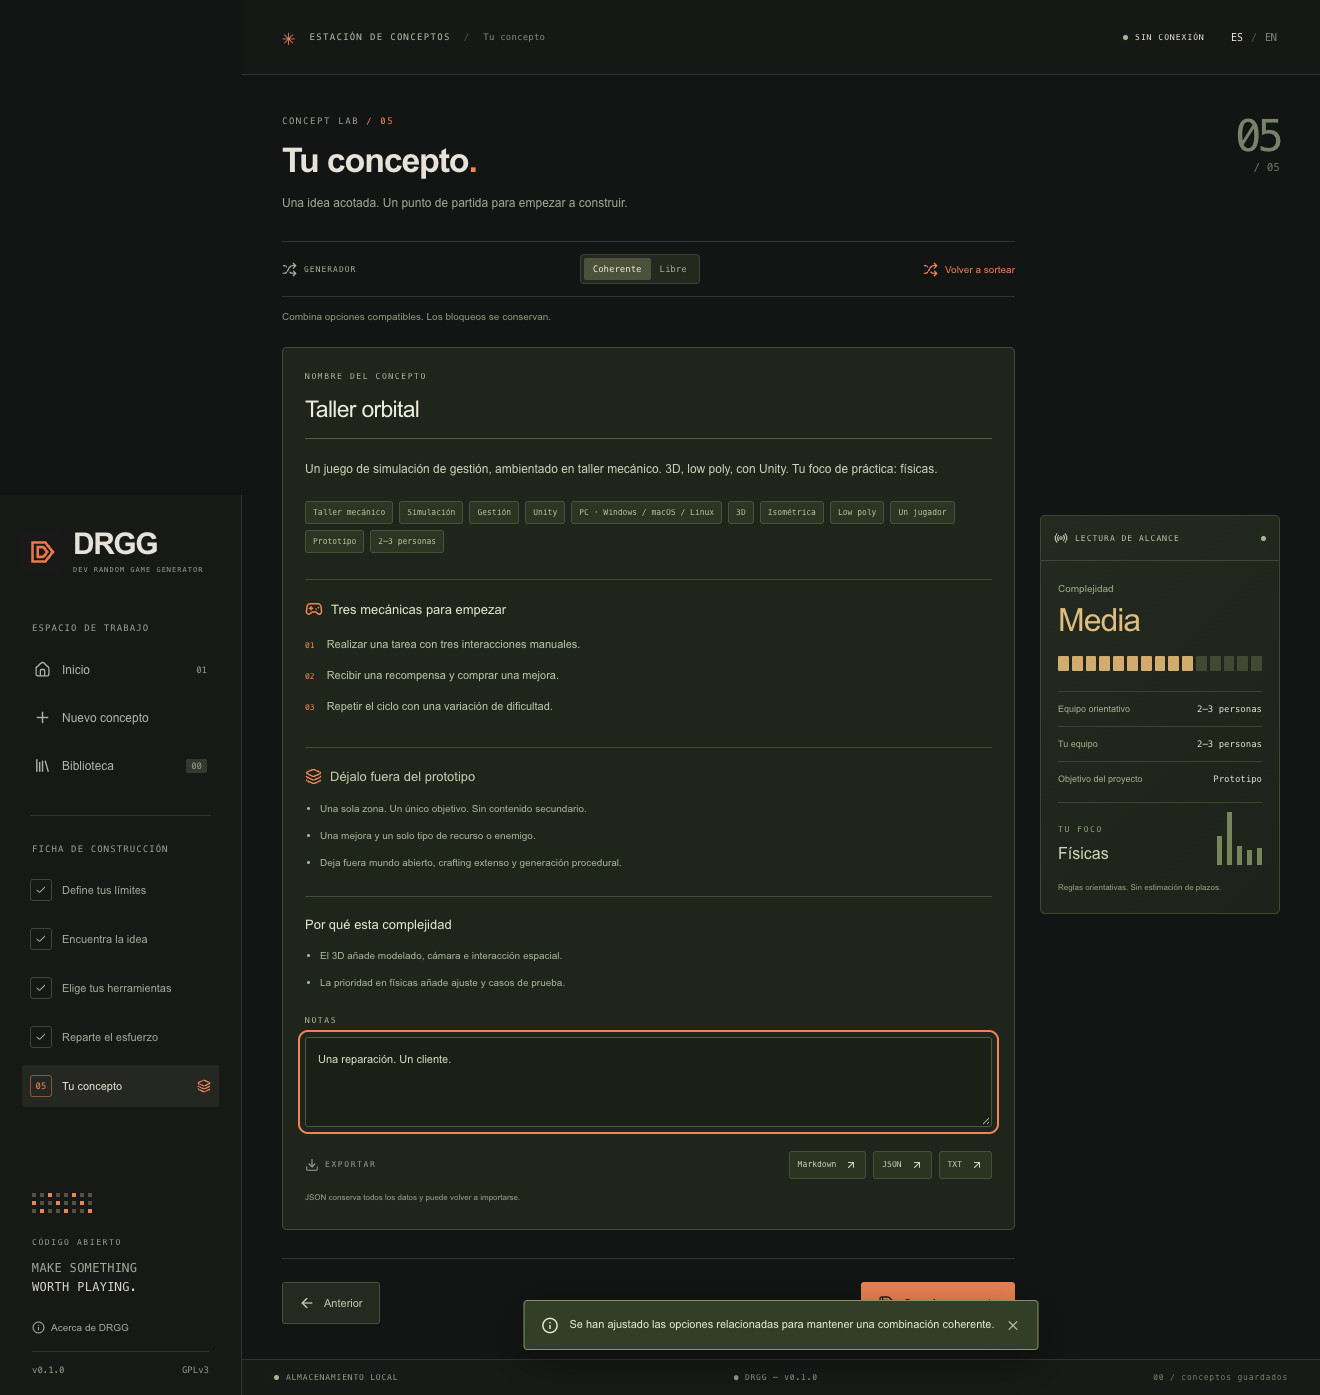
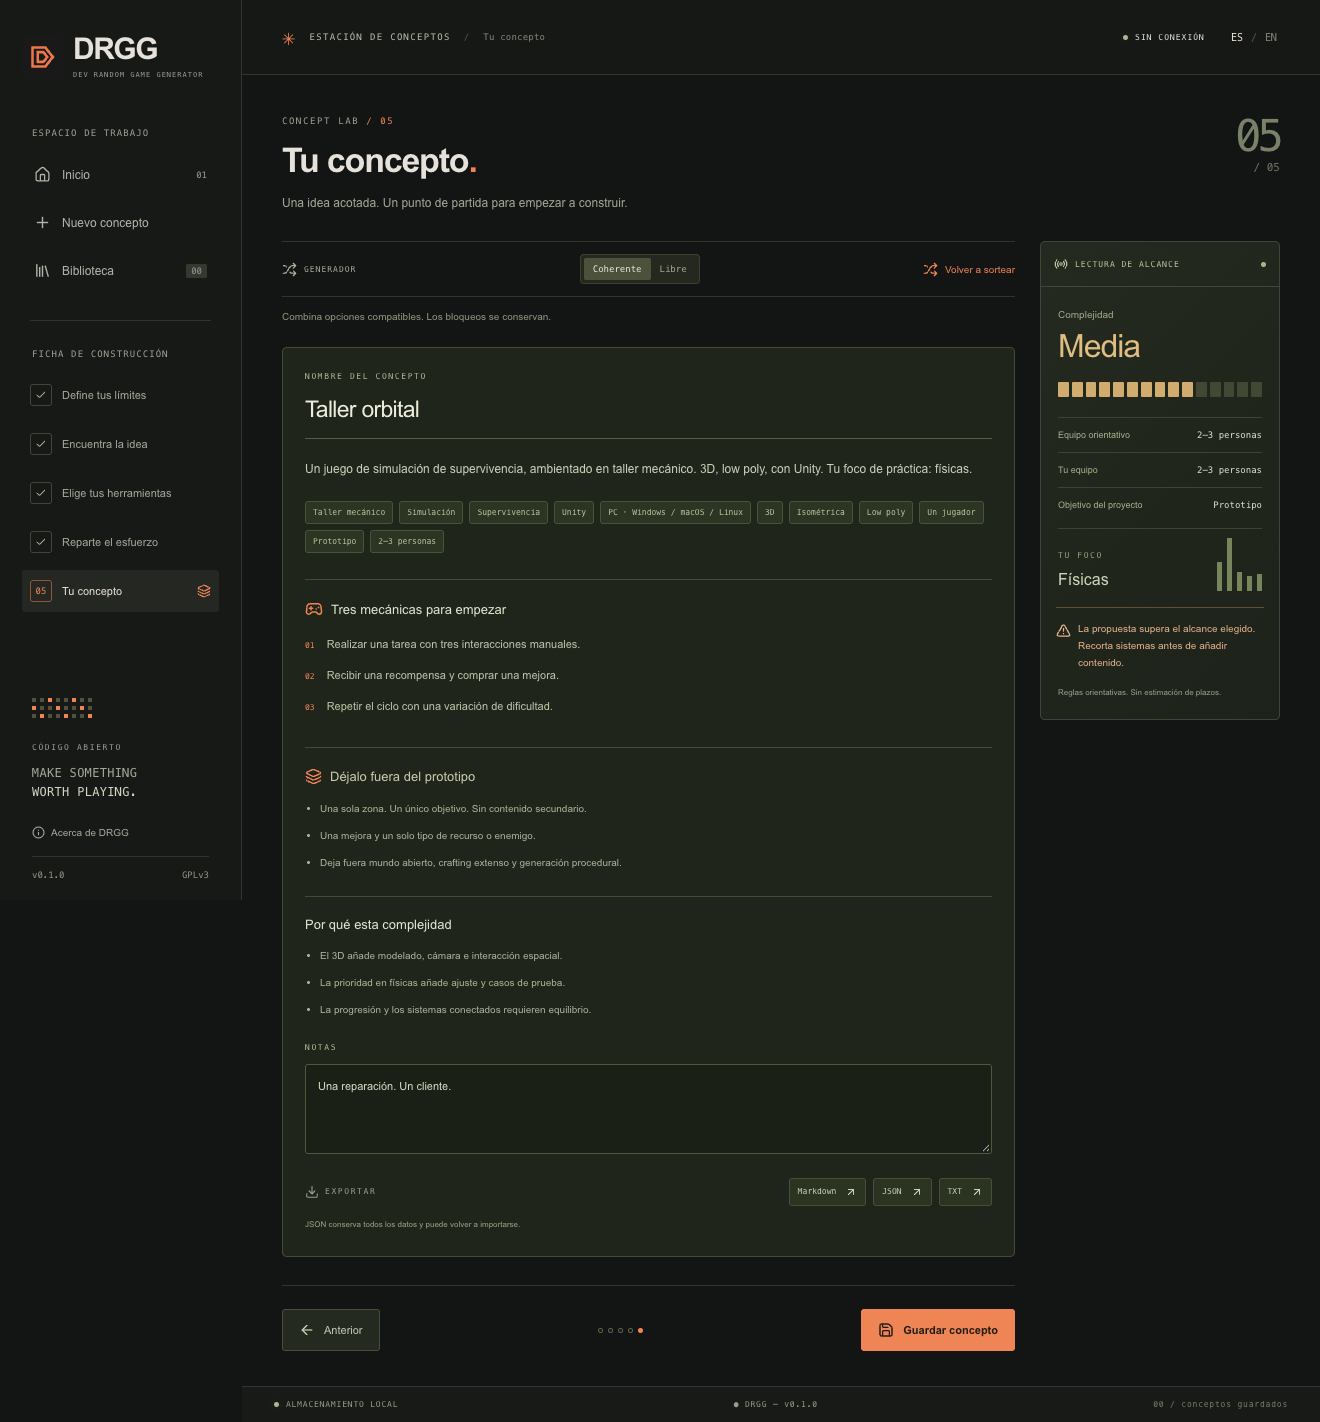
docs: record native verification and improve concept capture

diff --git a/tests/e2e/app.spec.ts b/tests/e2e/app.spec.ts
@@ -24,6 +24,11 @@ test('manual workflow, real engines, priorities, persistence, duplicate and dele
   await page.getByRole('button', { name: 'Ver concepto', exact: true }).click();
   await page.getByLabel('Nombre del concepto').fill('Taller orbital');
   await page.getByLabel('Notas', { exact: true }).fill('Una reparación. Un cliente.');
+  if (await page.getByRole('status').isVisible()) {
+    await page.getByRole('status').getByRole('button', { name: 'Cerrar' }).click();
+  }
+  await page.getByRole('heading', { name: 'Tu concepto.' }).focus();
+  await page.evaluate(() => window.scrollTo(0, 0));
   await page.screenshot({ path: testInfo.outputPath('concept.png'), fullPage: true });
   await page.getByRole('button', { name: 'Guardar concepto', exact: true }).click();
   await expect(page.getByRole('status')).toContainText('Concepto guardado');

diff --git a/docs/VALIDATION.md b/docs/VALIDATION.md
@@ -10,6 +10,10 @@
 - Prueba Rust de reemplazo atómico y límites de lectura: 1 prueba superada.
 - Compilación nativa local Apple Silicon: app y DMG.
 - Ejecución macOS real: interfaz Tauri, creación de concepto, escritura en biblioteca, exportación JSON mediante diálogo nativo e importación del archivo exportado. JSON de salida comprobado: formato `drgg`, versión 1 y prioridades sumando 100.
+- Reapertura de la compilación final: conserva los dos conceptos de ejemplo creados durante las pruebas y permite consultar GPLv3 y avisos de dependencias sin conexión.
+- [Checks de GitHub Actions](https://github.com/mar33k13/DRGG/actions/runs/39244621036): compilación de interfaz y pruebas de lógica/interfaz superadas para el commit `2eabc37142b6585e8430e3ad6feaa7324a76c5a8`.
+
[1 lines of base64/hex data omitted]
 
 ## Límites
 
